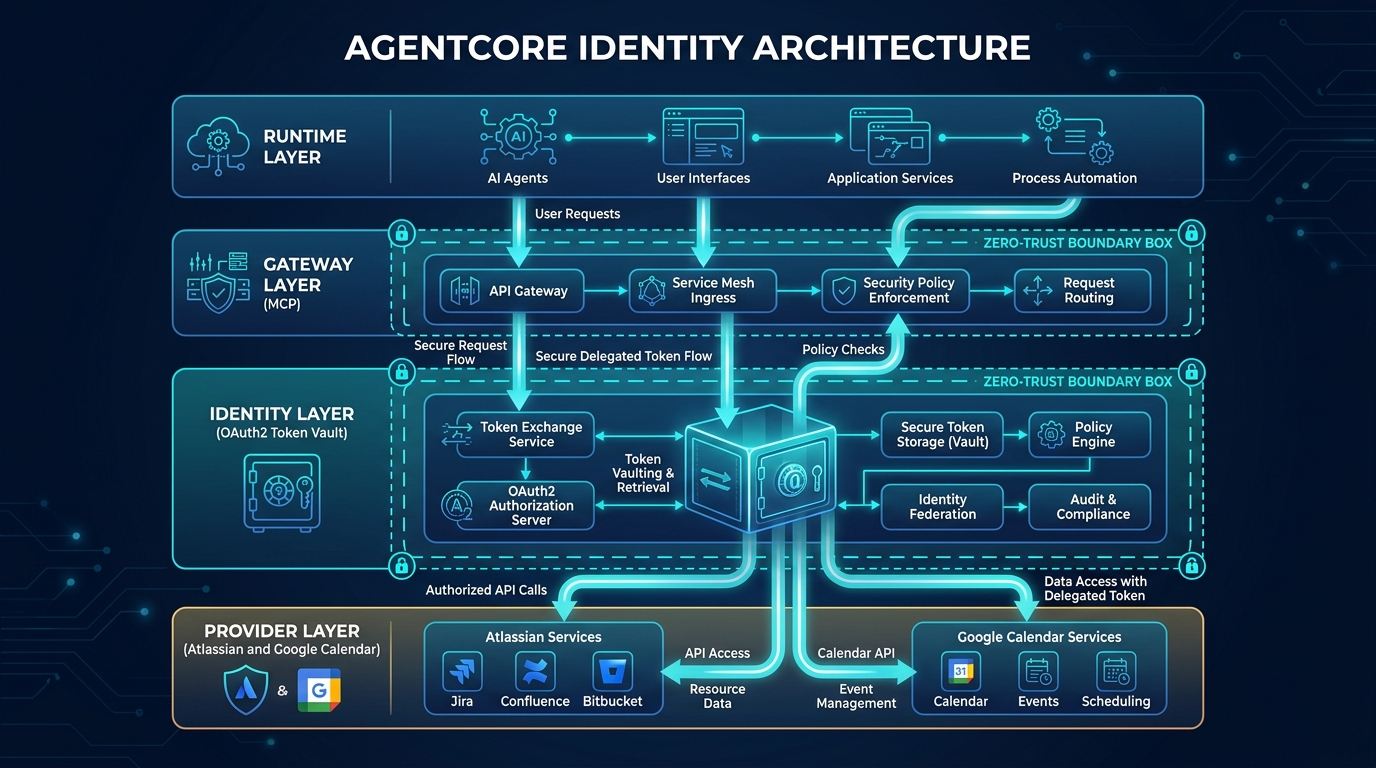
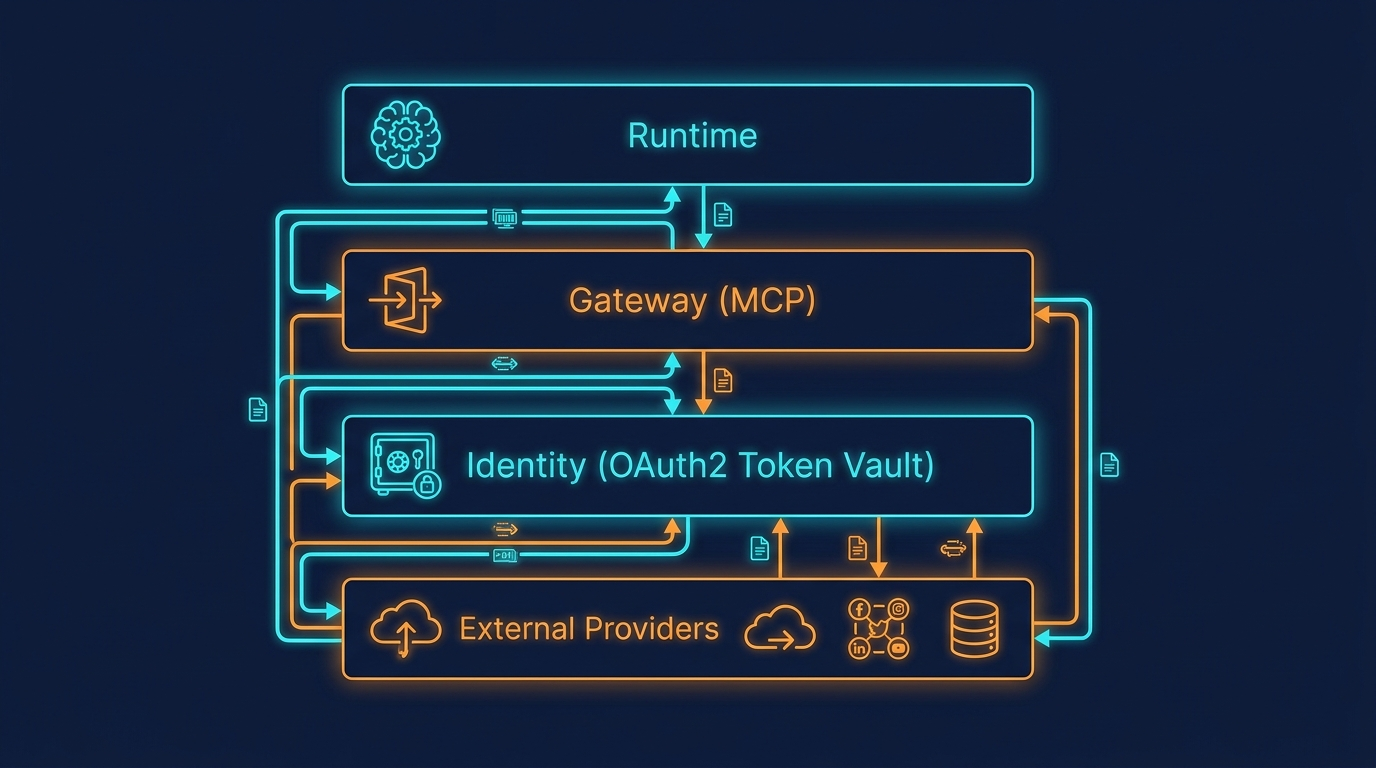
Refine README narrative and regenerate architecture visuals
Rewrote README structure to explain each architecture image in context and regenerated all Nano Banana images without decorative title/marketing text. The visuals are now technical-only and aligned to repository documentation intent.

Constraint: User requested no branded/promotional title text in diagrams

Confidence: high

Scope-risk: narrow

Directive: Keep future generated diagrams free of decorative slogan text

Tested: Manual asset regeneration and README link consistency

diff --git a/README.md b/README.md
@@ -1,37 +1,71 @@
 # AgentCore Identity
 
-Production-style reference for identity-safe AI agent orchestration on Amazon Bedrock AgentCore.
+Production-grade reference for identity-safe AI agent orchestration on Amazon Bedrock AgentCore.
 
-This repository focuses on one core problem: enabling an agent to call multiple external systems with delegated user OAuth while preserving strict identity boundaries.
+This project addresses one hard problem: how to let an agent call multiple external systems with delegated user OAuth without leaking trust boundaries.
 
-## What You Get
+## Readme Structure
+
+This README is intentionally organized in this order:
+
+1. Problem and scope
+2. Architecture visuals with context
+3. Repository structure
+4. Quick start and deploy
+5. Image generation workflow
+
+## Problem and Scope
+
+Most agent prototypes break in production at identity boundaries. This repository is built around:
 
 - Inbound identity validation with Cognito JWT
-- MCP tool discovery/routing through AgentCore Gateway
-- Outbound delegated OAuth providers with token vault isolation
-- Multi-target orchestration patterns (Atlassian + Google Calendar)
-- CDK infrastructure project separated from runtime/service code
-
-## Architecture
-
-The implementation is structured into four boundaries:
-
-1. Runtime boundary: agent orchestration and tool decisioning
-2. Gateway boundary: MCP protocol transport and tool exposure
-3. Identity boundary: delegated OAuth and secure token exchange
-4. Provider boundary: external APIs reachable only through approved scopes
+- MCP tool discovery and routing through AgentCore Gateway
+- Outbound delegated OAuth through AgentCore Identity token vault
+- Multi-target orchestration (Atlassian + Google Calendar)
+- CDK infrastructure isolated from runtime code
 
 ## Architecture Visuals
 
+### 1) System Map: Runtime, Gateway, Identity, Providers
+
+This diagram gives the high-level architecture and component boundaries.
+
 ![AgentCore Identity Architecture Hero](docs/assets/agentcore-readme-hero-nanobanana.png)
+
+Use this to understand:
+
+- where agent reasoning runs
+- where protocol routing happens (`tools/list`, `tools/call`)
+- where token exchange is isolated
+- where external API calls are finally executed
+
+### 2) Delegated OAuth Flow Sequence
+
+This view explains the request path for a user action that needs provider access.
 
 ![Delegated OAuth Sequence](docs/assets/agentcore-readme-oauth-sequence-nanobanana.png)
 
+Use this to understand:
+
+- when consent URL elicitation happens
+- how callback and token exchange resume the flow
+- where delegated tokens are used for provider APIs
+
+### 3) Zero-Trust Boundary Model
+
+This view focuses on security boundaries rather than feature flow.
+
 ![Zero-Trust Boundary Map](docs/assets/agentcore-readme-zero-trust-nanobanana.png)
+
+Use this to understand:
+
+- which layer is allowed to see what
+- why token material is isolated from runtime orchestration
+- where policy and scope enforcement should be audited
 
 ## Repository Structure
 
-- `src/`: runtime/auth/providers/MCP services
+- `src/`: runtime, auth, providers, MCP services
 - `infra/cdk/`: CDK app and stack definitions
 - `scripts/`: validation and automation utilities
 - `scripts/deploy/`: deployment entry scripts
@@ -64,7 +98,7 @@ export AWS_REGION=<AWS_REGION>
 export AWS_ACCOUNT_ID=<AWS_ACCOUNT_ID>
 ```
 
-### Run service locally
+### Run locally
 
 ```bash
 python entrypoint.py
@@ -78,26 +112,20 @@ AWS_PROFILE=<AWS_PROFILE> AWS_REGION=<AWS_REGION> \
 npx cdk deploy BedrockIdentityFull --require-approval never
 ```
 
-## Nano Banana Image Generation
+## Nano Banana Image Workflow
 
-This repo includes an explicit workflow for high-quality architecture imagery.
+For Codex, use:
 
-- Codex skill: `image-generator` (Gemini Nano Banana Pro backend)
-- Workflow doc: [docs/IMAGE_GENERATION_NANOBANANA.md](docs/IMAGE_GENERATION_NANOBANANA.md)
+- Skill: `image-generator` (Gemini Nano Banana Pro backend)
+- Guide: [docs/IMAGE_GENERATION_NANOBANANA.md](docs/IMAGE_GENERATION_NANOBANANA.md)
 
-Practical guidance:
+Rules:
 
-- Use the skill when generating architecture hero images, explainer assets, or docs visuals.
-- Keep generated assets under `docs/assets/`.
-- Never commit secrets/API keys in prompts, scripts, or outputs.
+- keep generated visuals in `docs/assets/`
+- never include secrets in prompts or generated artifacts
+- regenerate diagrams whenever trust boundaries or flows change
 
-## Security and Public-Safe Policy
-
-- Sensitive values are masked using placeholders
-- Internal-only planning/audit artifacts are excluded
-- Environment/account/profile data must remain externalized
-
-## Documentation Entry Points
+## Documentation Index
 
 - [Documentation Index](docs/README.md)
 - [Atlassian OAuth Setup](docs/ATLASSIAN_OAUTH_SETUP.md)
